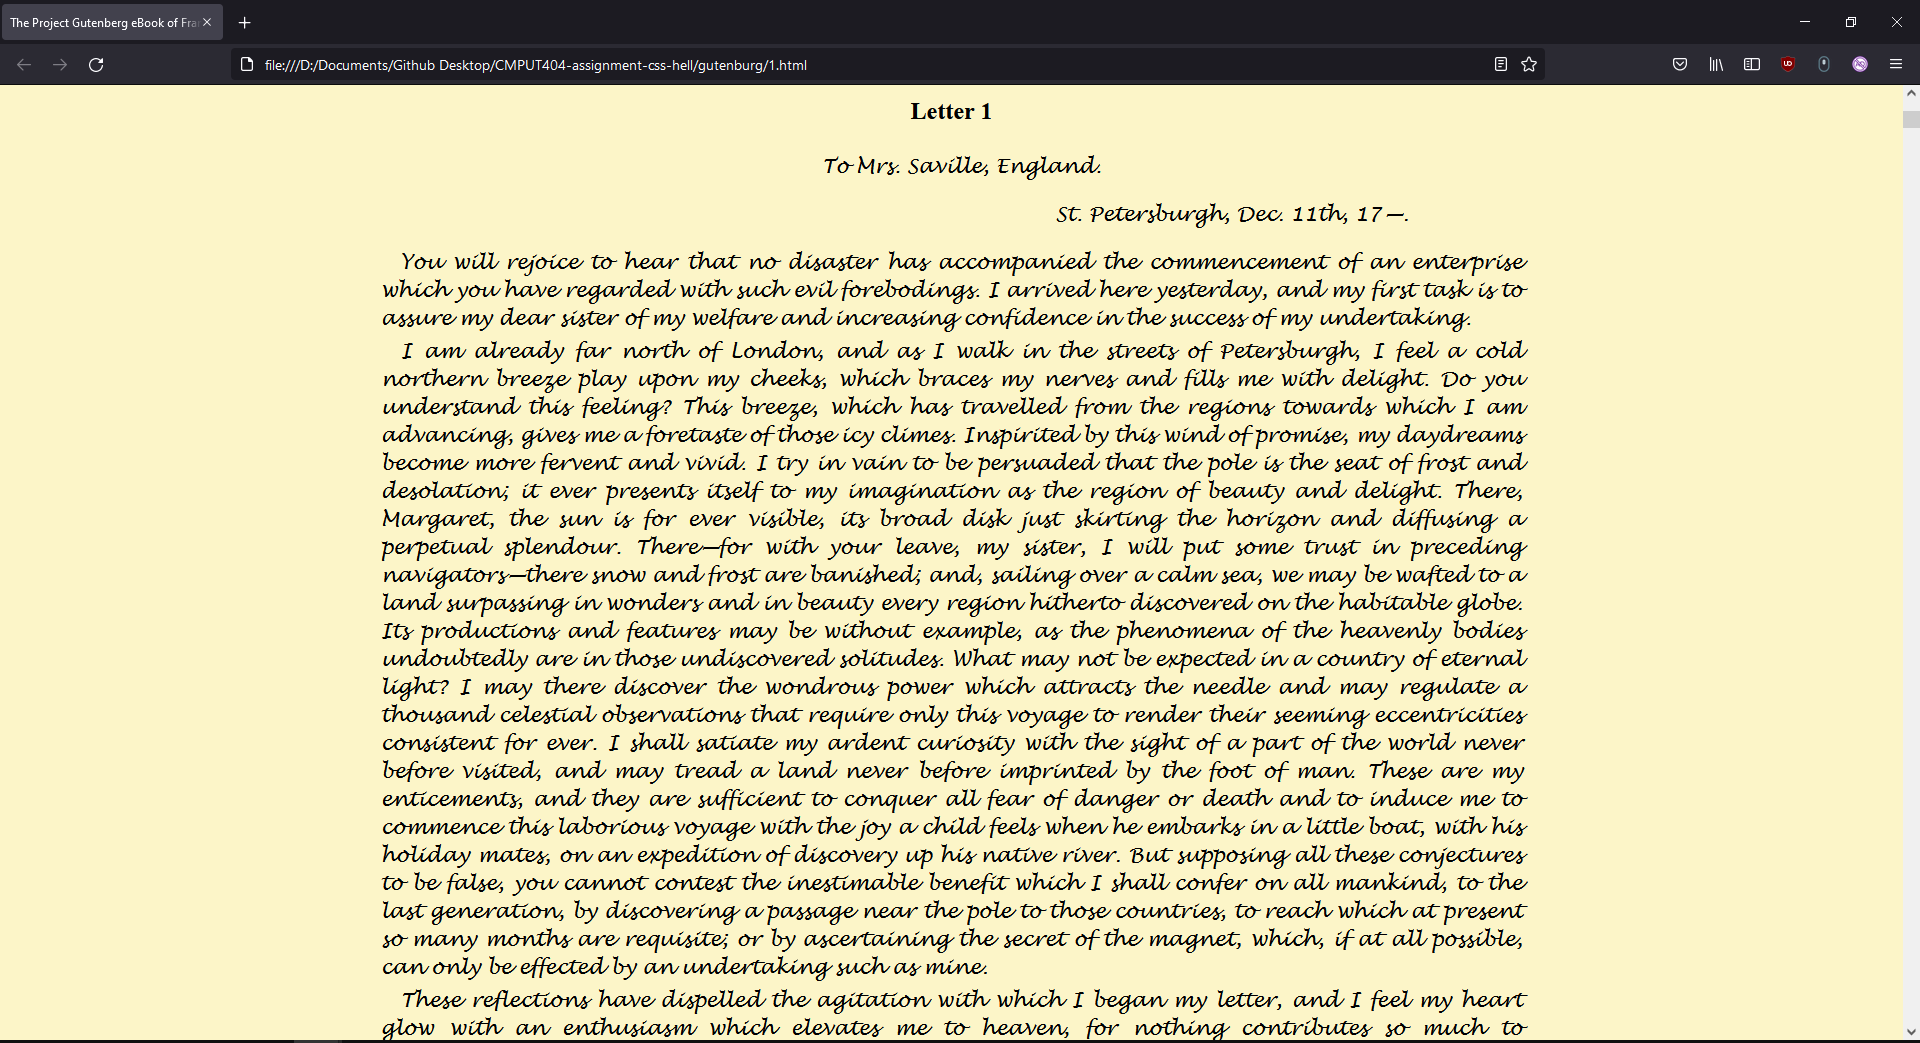
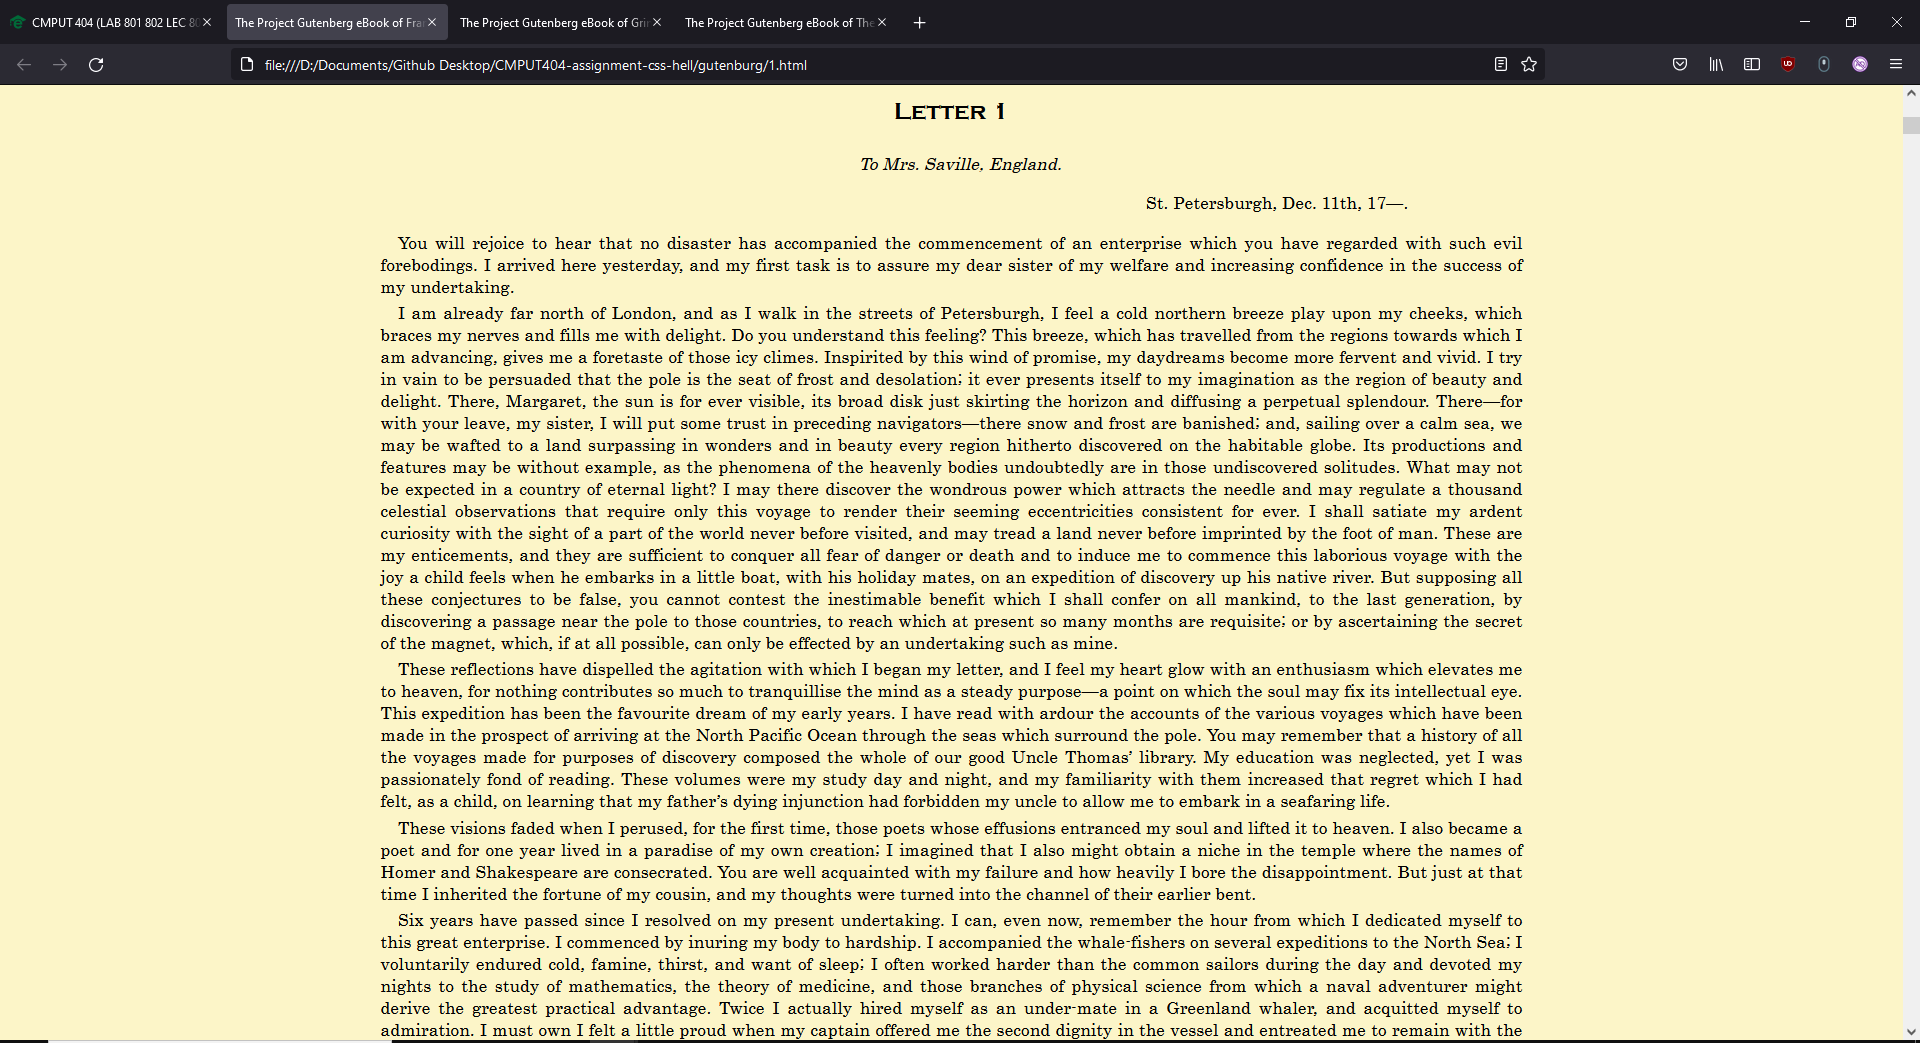
Realized only 1 css files for gutenburg

diff --git a/gutenburg/1.html b/gutenburg/1.html
@@ -4,7 +4,7 @@
 <meta charset="utf-8">
 <meta name="generator" content="HTML Tidy for HTML5 for Linux version 5.6.0">
 <title>The Project Gutenberg eBook of Frankenstein, by Mary Wollstonecraft (Godwin) Shelley</title>
-<link rel="stylesheet" href="Frankstyle.css">
+<link rel="stylesheet" href="Grimmstyle.css">
 <style>/**/
 body {
     margin-left: 20%;

diff --git a/gutenburg/3.html b/gutenburg/3.html
@@ -4,7 +4,7 @@
 <meta charset="utf-8">
 <meta name="generator" content="HTML Tidy for HTML5 for Linux version 5.6.0">
 <title>The Project Gutenberg eBook of The Picture of Dorian Gray, by Oscar Wilde</title>
-<link rel="stylesheet" href="Dorianstyle.css">
+<link rel="stylesheet" href="Grimmstyle.css">
 
 <style>/**/
 body {
